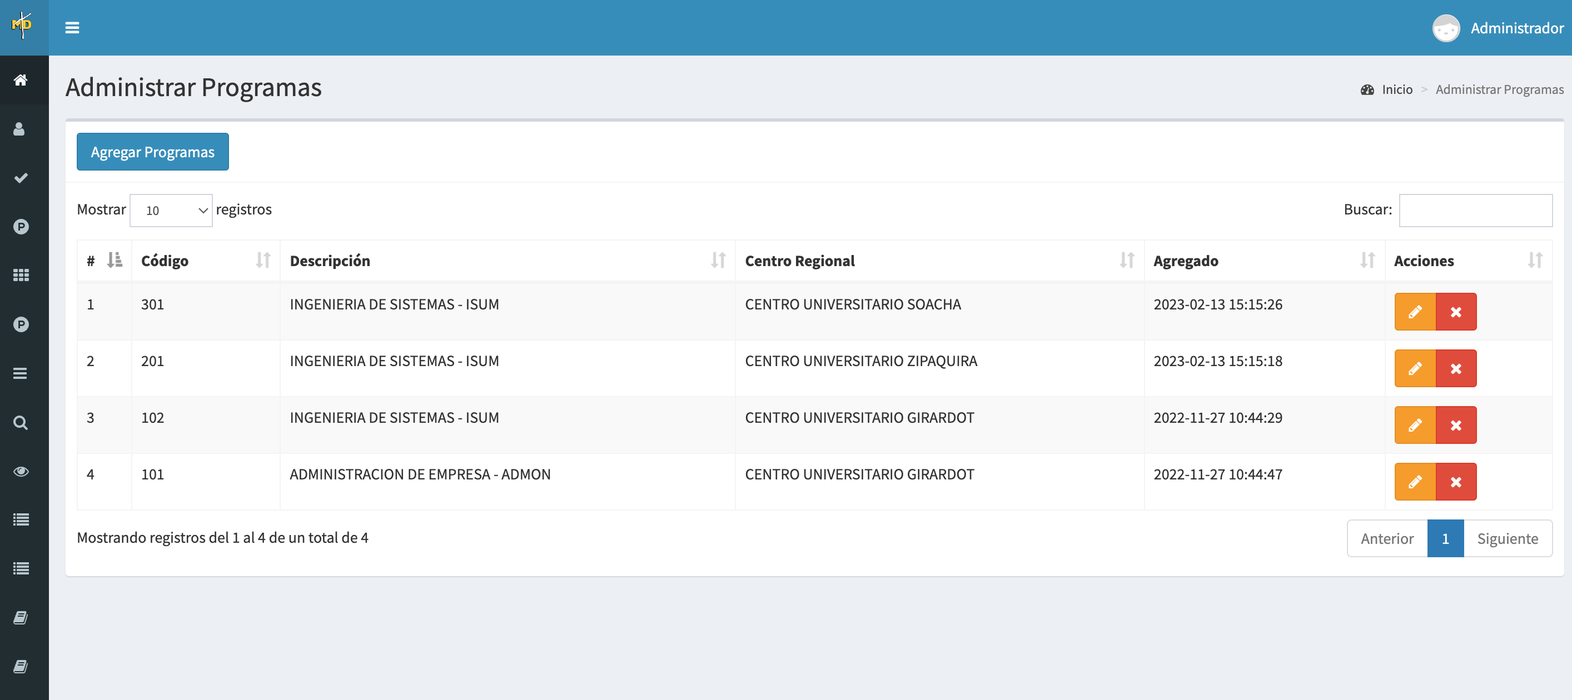
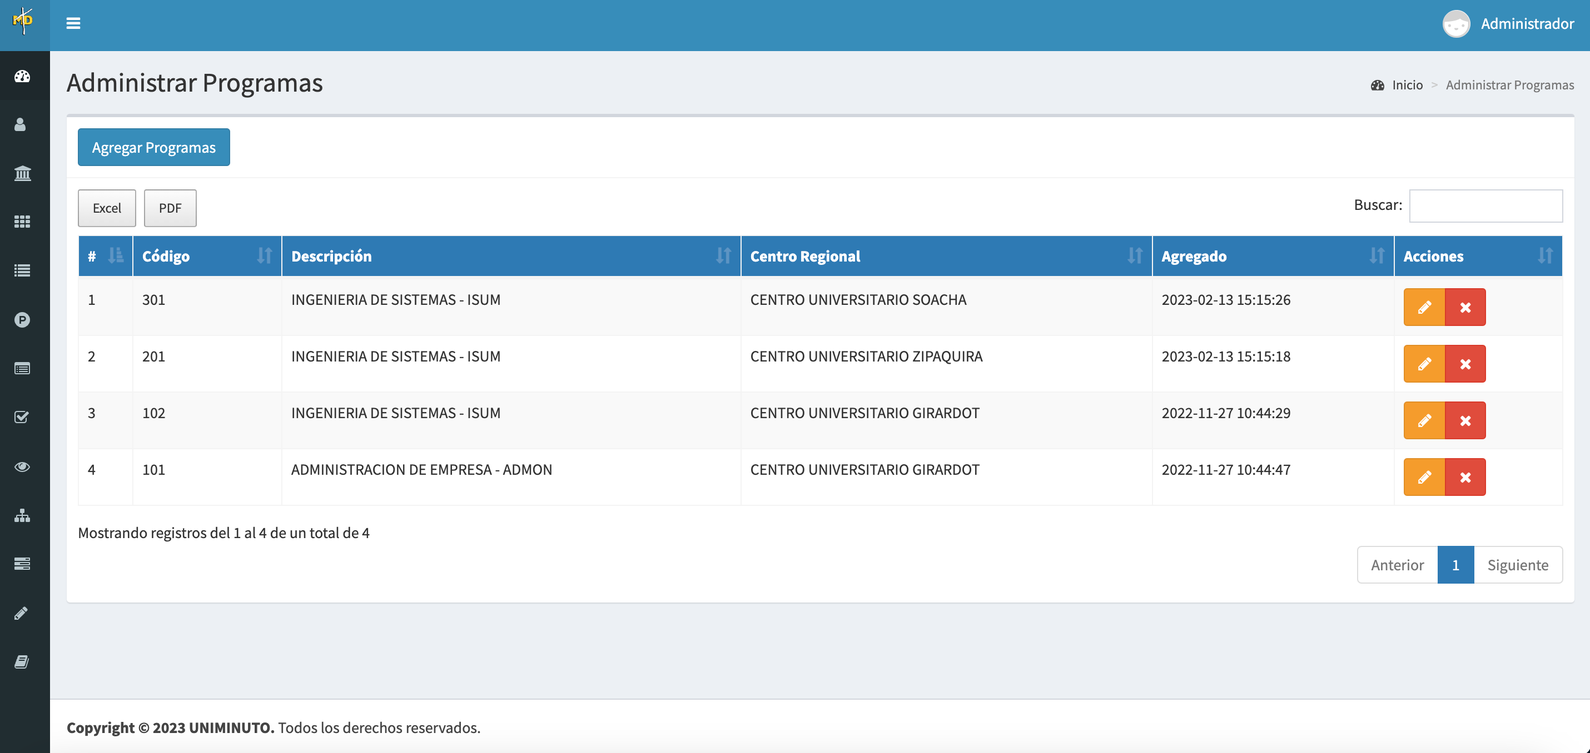
cambios en el manual de usuario

diff --git a/vistas/dist/css/manual.css b/vistas/dist/css/manual.css
@@ -99,6 +99,6 @@
     margin: 2em 0;
   }
   .accordion .accordion-content img{
-    width: 100%;
+    width: 90%;
     height: 500px;
   }

diff --git a/vistas/modulos/manual.php b/vistas/modulos/manual.php
@@ -37,21 +37,52 @@ session_start();
                             <div class="accordion">
                                 <div class="accordion-item">
                                     <button id="accordion-button-1" aria-expanded="false">
+                                        <span class="accordion-title">Cómo ingreso al aplicativo?</span>
+                                        <span class="icon" aria-hidden="true"></span>
+                                    </button>
+                                    <div class="accordion-content">
+                                        <p>Al ingresar a la url del aplicativo encontraremos un formulario de registro, el cuál
+                                        nos solicitará nuestras credenciales (usuario y password).</p>
+                                        <img src="vistas/img/manual/login.png">
+                                        <p>Si los datos ingresados son incorrectos nos aparecera una alerta de error.</p>
+                                        <img src="vistas/img/manual/login_error.png">
+                                        <p>&nbsp;</p>
+                                    </div>
+                                </div>
+                                <div class="accordion-item">
+                                    <button id="accordion-button-2" aria-expanded="false">
+                                        <span class="accordion-title">Qué puedo hacer en la opción de Inicio?</span>
+                                        <span class="icon" aria-hidden="true"></span>
+                                    </button>
+                                    <div class="accordion-content">
+                                        <p>Al ingresar correctamente los datos de ingreso, nos recibe la opción de inicio, en esta
+                                        opción el administrador puede observar información diferente ingresada por los usuarios.</p>
+                                        <img src="vistas/img/manual/inicio_admon.png">
+                                        <p>En la parte superior puede observar cuantos centros regionales, cuantos programas y 
+                                        cuantos usuarios se encuentran registrados en el aplicativo, adicionalmente, puede
+                                        observa una serie de gráficos estadisticos con información relevante.</p>
+                                        
+                                    </div>
+                                </div>
+                                <div class="accordion-item">
+                                    <button id="accordion-button-1" aria-expanded="false">
                                         <span class="accordion-title">Qué puedo hacer en la opción de Usuarios?</span>
                                         <span class="icon" aria-hidden="true"></span>
                                     </button>
                                     <div class="accordion-content">
                                         <p>Al ingresar a la opción de Usuarios podemos visualizar la información más importante
                                             de los usuarios registrados en nuestra plataforma. Cómo lo es el último ingreso del usuario a nuestro
-                                        sistema, el rol que tiene en nuestro sistema, estado actual del usuario y el programa al que pertenece.</p>
+                                        sistema, el rol que tiene en nuestro sistema, estado actual del usuario <strong>(Activo / Inactivo)</strong> y el programa al que pertenece.
+                                        Adicionalmente, podemos descargar esa información en formato pdf o excel.</p>
                                         <img src="vistas/img/manual/usuario_index.png">
                                         <p>Para adicionar un usuario nuevo oprimimos el botón azul ubicado en 
                                             la esquina superior izquierda el cual desplegará un formulario con los datos
-                                                obligatorios para su creación.</p>
+                                            <strong>obligatorios</strong> para su creación.</p>
                                         <img src="vistas/img/manual/usuarios_nuevo.png">
                                         <p>Podemos desactivar usuarios oprimiendo el botón verde que se encuentra en cada 
                                             registro. Si un usuario no esta activo este no puede ingresar a la plataforma.</p>
                                         <img src="vistas/img/manual/usuarios_desactivado.png">
+                                        <p>&nbsp;</p>
                                     </div>
                                 </div>
                                 <div class="accordion-item">
@@ -61,12 +92,13 @@ session_start();
                                     </button>
                                     <div class="accordion-content">
                                         <p>Al ingresar a esta opción podemos visualizar los Centros Regionales que han sido
-                                            creados en nuestro sistema.</p>
+                                            creados en nuestro sistema. Adicionalmente, podemos descargar esa información en formato pdf o excel</p>
                                         <img src="vistas/img/manual/centros_index.png">
                                         <p>Para adicionar un Centro Regional oprimimos el botón azul ubicado en la 
                                         esquina superior izquierda el cual desplegará un formulario con los datos
-                                        obligatorios para su creación.</p>
+                                        <strong>obligatorios</strong> para su creación.</p>
                                         <img src="vistas/img/manual/centros_nuevo.png">
+                                        <p>&nbsp;</p>
                                     </div>
                                 </div>
                                 <div class="accordion-item">
@@ -76,15 +108,16 @@ session_start();
                                     </button>
                                     <div class="accordion-content">
                                         <p>Al ingresar a la opción de Programas podemos visualizar la información de los programas
-                                            registrados en nuestra plataforma.</p>
+                                            registrados en nuestra plataforma. Adicionalmente, podemos descargar esa información en formato pdf o excel</p>
                                         <img src="vistas/img/manual/programas_index.png">
                                         <p>Para adicionar un Programa oprimimos el botón azul ubicado en la 
                                         esquina superior izquierda el cual desplegará un formulario con los datos
-                                        obligatorios para su creación</p>
+                                        <strong>obligatorios</strong> para su creación</p>
                                         <img src="vistas/img/manual/programas_nuevo.png">
                                         <p>Para crear un registro debemos seleccionar el Centro Regional al que pertenece el Programa y la
-                                            plataforma automaticamente le otorgara un consecutivo.</p>
+                                            plataforma automaticamente le otorgará un consecutivo.</p>
                                         <img src="vistas/img/manual/programas_nuevo2.png">
+                                        <p>&nbsp;</p>
                                     </div>
                                 </div>
                                 <div class="accordion-item">
@@ -93,13 +126,14 @@ session_start();
                                         <span class="icon" aria-hidden="true"></span>
                                     </button>
                                     <div class="accordion-content">
-                                        <p>Al ingresar a la opción de Programas podemos visualizar la información de los programas
-                                            registrados en nnuestra plataforma.</p>
-                                        <img src="vistas/img/manual/programas_index.png">
-                                        <p>Para adicionar un Programa oprimimos el botón azul ubicado en la 
+                                        <p>Al ingresar a la opción de Competencias podemos visualizar la información de las competencias que hemos
+                                        registrado en nnuestra plataforma. Adicionalmente, podemos descargar esa información en formato pdf o excel.</p>
+                                        <img src="vistas/img/manual/competencias_index.png">
+                                        <p>Para adicionar una Competencia oprimimos el botón azul ubicado en la 
                                         esquina superior izquierda el cual desplegará un formulario con los datos
-                                        obligatorios para su creación.</p>
-                                        <img src="vistas/img/manual/programas_nuevo.png">
+                                        <strong>obligatorios</strong> para su creación.</p>
+                                        <img src="vistas/img/manual/competencias_nuevo.png">
+                                        <p>&nbsp;</p>
                                     </div>
                                 </div>
                                 <div class="accordion-item">
@@ -109,15 +143,15 @@ session_start();
                                     </button>
                                     <div class="accordion-content">
                                         <p>Al ingresar a la opción de Pruebas podemos visualizar la información registrada anteriormente
-                                        en nnuestra plataforma.</p>
-                                        <img src="vistas/img/manual/programas_index.png">
+                                        en nuestra plataforma. Adicionalmente, podemos descargar esa información en formato pdf o excel.</p>
+                                        <img src="vistas/img/manual/pruebas_index.png">
                                         <p>Para adicionar una Prueba oprimimos el botón azul ubicado en la 
                                         esquina superior izquierda el cual desplegará un formulario con los datos
-                                        obligatorios para su creación.</p>
-                                        <img src="vistas/img/manual/programas_nuevo.png">
+                                        <strong>obligatorios</strong> para su creación.</p>
+                                        <img src="vistas/img/manual/pruebas_nuevo.png">
                                         <p>Para crear una prueba debemos seleccionar la competencia a la que pertenece la prueba y
-                                                automaticamente la plataforma le otorgará un consecutivo.</p>
-                                        <img src="vistas/img/manual/programas_nuevo2.png">
+                                                automaticamente la plataforma le otorgará un consecutivo y debemos escribir el nombre
+                                                de la prueba.</p>
                                     </div>
                                 </div>
                                 <div class="accordion-item">
@@ -127,15 +161,14 @@ session_start();
                                     </button>
                                     <div class="accordion-content">
                                         <p>Al ingresar a la opción de Sub Competencias podemos visualizar la información registrada anteriormente
-                                        en nnuestra plataforma.</p>
-                                        <img src="vistas/img/manual/programas_index.png">
+                                        en nnuestra plataforma. Adicionalmente, podemos descargar esa información en formato pdf o excel.</p>
+                                        <img src="vistas/img/manual/subcompetencias_index.png">
                                         <p>Para adicionar una Sub Competencia oprimimos el botón azul ubicado en la 
                                         esquina superior izquierda el cual desplegará un formulario con los datos
                                         obligatorios para su creación.</p>
-                                        <img src="vistas/img/manual/programas_nuevo.png">
+                                        <img src="vistas/img/manual/subcompetencias_nuevo.png">
                                         <p>Para crear una Sub Competencia debemos seleccionar la prueba a la que pertenece la Sub Competencia y
                                                 automaticamente la plataforma le otorgará un consecutivo.</p>
-                                        <img src="vistas/img/manual/programas_nuevo2.png">
                                     </div>
                                 </div>
                                 <div class="accordion-item">
@@ -145,15 +178,14 @@ session_start();
                                     </button>
                                     <div class="accordion-content">
                                         <p>Al ingresar a la opción de Caracteristicas podemos visualizar la información registrada anteriormente
-                                        en nnuestra plataforma.</p>
-                                        <img src="vistas/img/manual/programas_index.png">
+                                        en nuestra plataforma. Adicionalmente, podemos descargar esa información en formato pdf o excel.</p>
+                                        <img src="vistas/img/manual/caracteristicas_index.png">
                                         <p>Para adicionar una Caracteristica oprimimos el botón azul ubicado en la 
                                         esquina superior izquierda el cual desplegará un formulario con los datos
-                                        obligatorios para su creación.</p>
-                                        <img src="vistas/img/manual/programas_nuevo.png">
+                                        <strong>obligatorios</strong> para su creación.</p>
+                                        <img src="vistas/img/manual/caracteristicas_nuevo.png">
                                         <p>Para crear una Caracteristica debemos seleccionar la prueba a la que pertenece la Caracteristica, adicionar los puntajes obtenidos,
-                                            escribir el nivel a que corresponde y escribir las caracteristicas necesarias.</p>
-                                        <img src="vistas/img/manual/programas_nuevo2.png">
+                                            escribir el nivel a que corresponde <strong>(Nivel 1, Nivel 2, Nivel 3)</strong> y escribir las caracteristicas necesarias.</p>
                                     </div>
                                 </div>
                             </div>
@@ -173,21 +205,47 @@ session_start();
                             <div class="accordion">
                                 <div class="accordion-item">
                                     <button id="accordion-button-1" aria-expanded="false">
+                                        <span class="accordion-title">Cómo ingreso al aplicativo?</span>
+                                        <span class="icon" aria-hidden="true"></span>
+                                    </button>
+                                    <div class="accordion-content">
+                                        <p>Al ingresar a la url del aplicativo encontraremos un formulario de registro, el cuál
+                                        nos solicitará nuestras credenciales (usuario y password).</p>
+                                        <img src="vistas/img/manual/login.png">
+                                        <p>Si los datos ingresados son incorrectos nos aparecera una alerta de error.</p>
+                                        <img src="vistas/img/manual/login_error.png">
+                                        <p>&nbsp;</p>
+                                    </div>
+                                </div>
+                                <div class="accordion-item">
+                                    <button id="accordion-button-2" aria-expanded="false">
+                                        <span class="accordion-title">Qué puedo hacer en la opción de Inicio?</span>
+                                        <span class="icon" aria-hidden="true"></span>
+                                    </button>
+                                    <div class="accordion-content">
+                                        <p>Al ingresar correctamente los datos de ingreso, nos recibe la opción de inicio, en esta
+                                        opción el profesor líder puede observar información diferente ingresada anteriormente.</p>
+                                        <img src="vistas/img/manual/inicio_lider.png">
+                                        <p>En la parte superior puede observar el nombre del profesor que ingreso al sisitema junto a su perfil, 
+                                        adicionalmente, puede observa una serie de gráficos estadisticos con información relevante.</p>
+                                        
+                                    </div>
+                                </div>
+                                <div class="accordion-item">
+                                    <button id="accordion-button-1" aria-expanded="false">
                                         <span class="accordion-title">Qué puedo hacer en la opción de Módulos?</span>
                                         <span class="icon" aria-hidden="true"></span>
                                     </button>
                                     <div class="accordion-content">
-                                        <p>Al ingresar a la opción de Usuarios podemos visualizar la información más importante
-                                            de los usuarios registrados en nuestra plataforma. Cómo lo es el último ingreso del usuario a nuestro
-                                        sistema, el rol que tiene en nuestro sistema, estado actual del usuario y el programa al que pertenece.</p>
-                                        <img src="vistas/img/manual/usuario_index.png">
-                                        <p>Para adicionar un usuario nuevo oprimimos el botón azul ubicado en 
-                                            la esquina superior izquierda el cual desplegará un formulario con los datos
-                                                obligatorios para su creación.</p>
-                                        <img src="vistas/img/manual/usuarios_nuevo.png">
-                                        <p>Podemos desactivar usuarios oprimiendo el botón verde que se encuentra en cada 
-                                            registro. Si un usuario no esta activo este no puede ingresar a la plataforma.</p>
-                                        <img src="vistas/img/manual/usuarios_desactivado.png">
+                                        <p>Al ingresar a la opción de Módulos podemos visualizar la información registrada anteriormente
+                                        en nuestra plataforma. Adicionalmente, podemos descargar esa información en formato pdf o excel.</p>
+                                        <img src="vistas/img/manual/modulos_index.png">
+                                        <p>Para adicionar un Módulo oprimimos el botón azul ubicado en la 
+                                        esquina superior izquierda el cual desplegará un formulario con los datos
+                                        <strong>obligatorios</strong> para su creación.</p>
+                                        <img src="vistas/img/manual/modulos_nuevo.png">
+                                        <p>Para crear un Módulo debemos seleccionar la competencia a la que pertenece el módulo, la prueba, el centro regional y
+                                        el programa, el aplicativo asignará un código y debemos terminar adicionando el puntaje y la desviación estandar.</p>
                                     </div>
                                 </div>
                                 <div class="accordion-item">
@@ -196,13 +254,14 @@ session_start();
                                         <span class="icon" aria-hidden="true"></span>
                                     </button>
                                     <div class="accordion-content">
-                                        <p>Al ingresar a esta opción podemos visualizar los Centros Regionales que han sido
-                                            creados en nuestro sistema.</p>
-                                        <img src="vistas/img/manual/centros_index.png">
-                                        <p>Para adicionar un Centro Regional oprimimos el botón azul ubicado en la 
+                                        <p>Al ingresar a la opción de sub componente podemos visualizar la información registrada anteriormente
+                                        en nuestra plataforma. Adicionalmente, podemos descargar esa información en formato pdf o excel.</p>
+                                        <img src="vistas/img/manual/subcomponentes_index.png">
+                                        <p>Para adicionar un sub componente oprimimos el botón azul ubicado en la 
                                         esquina superior izquierda el cual desplegará un formulario con los datos
-                                        obligatorios para su creación.</p>
-                                        <img src="vistas/img/manual/centros_nuevo.png">
+                                        <strong>obligatorios</strong> para su creación.</p>
+                                        <img src="vistas/img/manual/subcomponentes_nuevo.png">
+                                        <p>Para crear un sub componente debemos seleccionar el módulo, el aplicativo asignará un código y debemos terminar adicionando el puntaje y la desviación estandar.</p>
                                     </div>
                                 </div>
                                 <div class="accordion-item">
@@ -211,16 +270,15 @@ session_start();
                                         <span class="icon" aria-hidden="true"></span>
                                     </button>
                                     <div class="accordion-content">
-                                        <p>Al ingresar a la opción de Programas podemos visualizar la información de los programas
-                                            registrados en nuestra plataforma.</p>
-                                        <img src="vistas/img/manual/programas_index.png">
-                                        <p>Para adicionar un Programa oprimimos el botón azul ubicado en la 
+                                        <p>Al ingresar a la opción de Resultados podemos visualizar la información registrada anteriormente
+                                        en nuestra plataforma. Adicionalmente, podemos descargar esa información en formato pdf o excel.</p>
+                                        <img src="vistas/img/manual/resultados_index.png">
+                                        <p>Para adicionar un Resultado oprimimos el botón azul ubicado en la 
                                         esquina superior izquierda el cual desplegará un formulario con los datos
-                                        obligatorios para su creación</p>
-                                        <img src="vistas/img/manual/programas_nuevo.png">
-                                        <p>Para crear un registro debemos seleccionar el Centro Regional al que pertenece el Programa y la
-                                            plataforma automaticamente le otorgara un consecutivo.</p>
-                                        <img src="vistas/img/manual/programas_nuevo2.png">
+                                        <strong>obligatorios</strong> para su creación.</p>
+                                        <img src="vistas/img/manual/resultados_nuevo.png">
+                                        <p>Para crear un Resultado debemos ingresar el puntaje y la desviación estandar del programa y
+                                     el puntaje y la desviación estandar del grupo de referencia.</p>
                                     </div>
                                 </div>
                                 <div class="accordion-item">
@@ -229,13 +287,15 @@ session_start();
                                         <span class="icon" aria-hidden="true"></span>
                                     </button>
                                     <div class="accordion-content">
-                                        <p>Al ingresar a la opción de Programas podemos visualizar la información de los programas
-                                            registrados en nnuestra plataforma.</p>
-                                        <img src="vistas/img/manual/programas_index.png">
-                                        <p>Para adicionar un Programa oprimimos el botón azul ubicado en la 
+                                        <p>Al ingresar a la opción de Mejoras podemos visualizar la información registrada anteriormente
+                                        en nuestra plataforma. Adicionalmente, podemos descargar esa información en formato pdf o excel.</p>
+                                        <img src="vistas/img/manual/mejoras_index.png">
+                                        <p>Para adicionar un Mejoras oprimimos el botón azul ubicado en la 
                                         esquina superior izquierda el cual desplegará un formulario con los datos
-                                        obligatorios para su creación.</p>
-                                        <img src="vistas/img/manual/programas_nuevo.png">
+                                        <strong>obligatorios</strong> para su creación.</p>
+                                        <img src="vistas/img/manual/mejoras_nuevo.png">
+                                        <p>Para crear un Mejoras debemos seleccionar la competencia a la que pertenece el módulo, la prueba, el centro regional y
+                                        el programa, el aplicativo asignará un código y debemos terminar adicionando el puntaje y la desviación estandar.</p>
                                     </div>
                                 </div>
                             </div>
